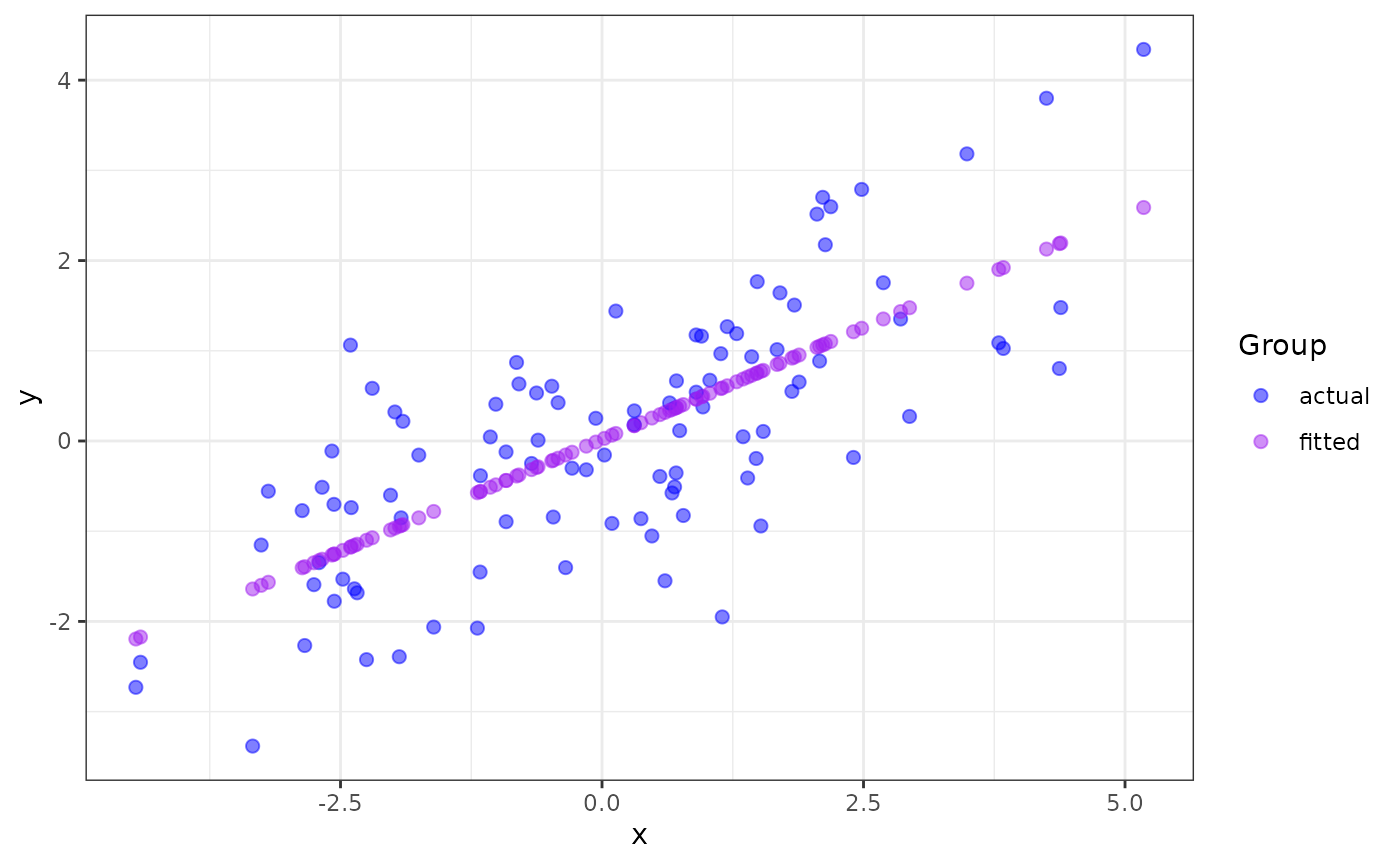
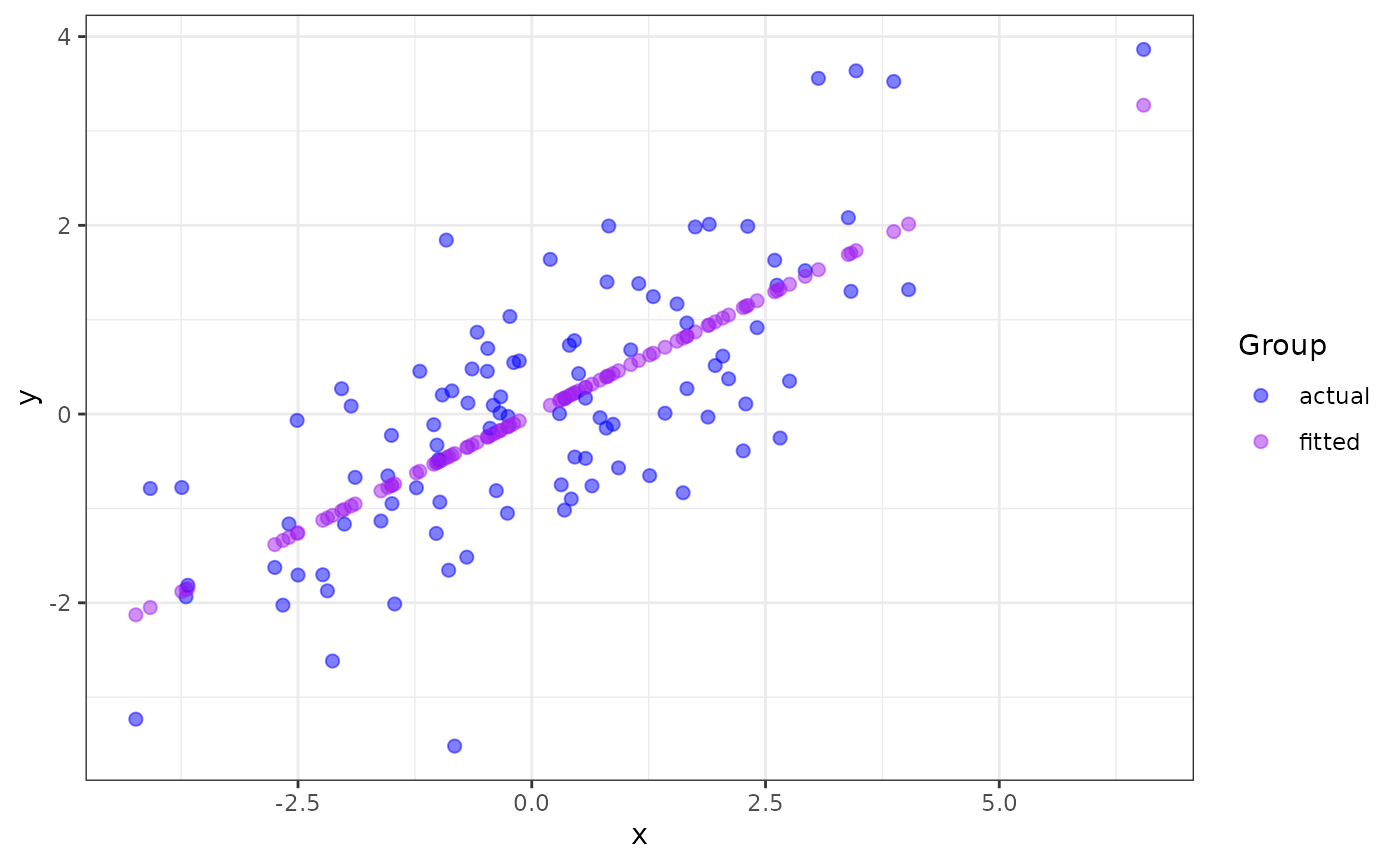
Built site for ggmatplot: 0.1.2@0722214

diff --git a/articles/ggmatplot.html b/articles/ggmatplot.html
@@ -103,7 +103,7 @@
 <span class="va">x</span> <span class="op">&lt;-</span> <span class="fu"><a href="https://rdrr.io/r/base/c.html" class="external-link">c</a></span><span class="op">(</span><span class="fu"><a href="https://rdrr.io/r/stats/Normal.html" class="external-link">rnorm</a></span><span class="op">(</span><span class="fl">100</span>, sd <span class="op">=</span> <span class="fl">2</span><span class="op">)</span><span class="op">)</span>
 
 <span class="fu"><a href="https://rdrr.io/r/utils/head.html" class="external-link">head</a></span><span class="op">(</span><span class="va">x</span><span class="op">)</span>
-<span class="co">#&gt; [1] -2.4777554 -0.9168436  0.7772520  1.4308031 -0.4660889  2.8544776</span>
+<span class="co">#&gt; [1]  1.4253932 -0.4119434  4.0306161 -0.2535960 -2.7484948  0.4224148</span>
 
 <span class="co"># matrix z</span>
 <span class="va">y</span> <span class="op">&lt;-</span> <span class="va">x</span> <span class="op">*</span> <span class="fl">0.5</span> <span class="op">+</span> <span class="fu"><a href="https://rdrr.io/r/stats/Normal.html" class="external-link">rnorm</a></span><span class="op">(</span><span class="fl">100</span>, sd <span class="op">=</span> <span class="fl">1</span><span class="op">)</span>
@@ -112,13 +112,13 @@
            fitted <span class="op">=</span> <span class="va">fit.y</span><span class="op">)</span>
 
 <span class="fu"><a href="https://rdrr.io/r/utils/head.html" class="external-link">head</a></span><span class="op">(</span><span class="va">z</span><span class="op">)</span>
-<span class="co">#&gt;       actual     fitted</span>
-<span class="co">#&gt; 1 -1.5316006 -1.2124699</span>
-<span class="co">#&gt; 2 -0.8944853 -0.4375698</span>
-<span class="co">#&gt; 3 -0.8258826  0.4034482</span>
-<span class="co">#&gt; 4  0.9339503  0.7278976</span>
-<span class="co">#&gt; 5 -0.8430295 -0.2137968</span>
-<span class="co">#&gt; 6  1.3518501  1.4346676</span></code></pre></div>
+<span class="co">#&gt;         actual     fitted</span>
+<span class="co">#&gt; 1  0.009029587  0.7082586</span>
+<span class="co">#&gt; 2  0.093369343 -0.2123022</span>
+<span class="co">#&gt; 3  1.318497364  2.0135537</span>
+<span class="co">#&gt; 4 -0.024751244 -0.1329654</span>
+<span class="co">#&gt; 5 -1.625646478 -1.3829848</span>
+<span class="co">#&gt; 6 -0.899978482  0.2057363</span></code></pre></div>
 <p><code>ggmatplot</code> plots vector <code>x</code> against each column of matrix <code>z</code> using the default <code>plot_type = "point"</code>. This will be represented on the resulting plot as two groups, identified using different shapes and colors.</p>
 <div class="sourceCode" id="cb2"><pre class="downlit sourceCode r">
 <code class="sourceCode R"><span class="kw"><a href="https://rdrr.io/r/base/library.html" class="external-link">library</a></span><span class="op">(</span><span class="va"><a href="https://github.com/xuan-liang/ggmatplot" class="external-link">ggmatplot</a></span><span class="op">)</span>
